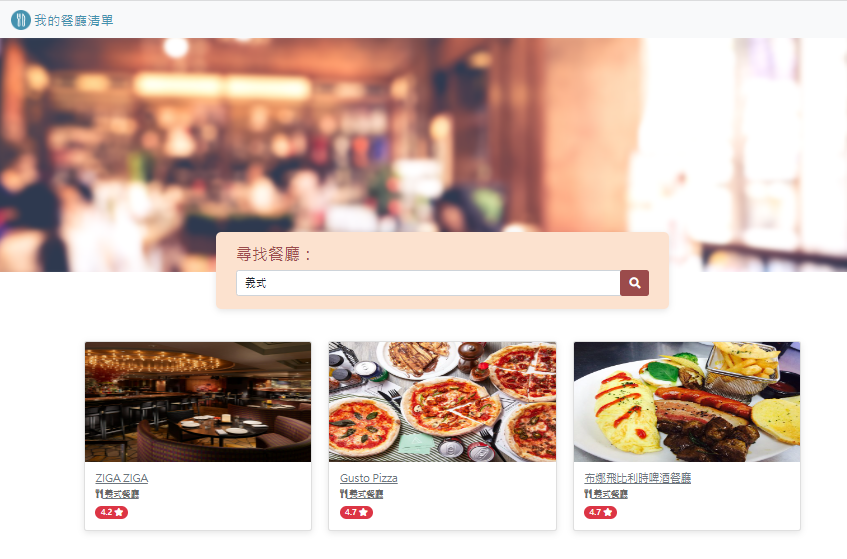
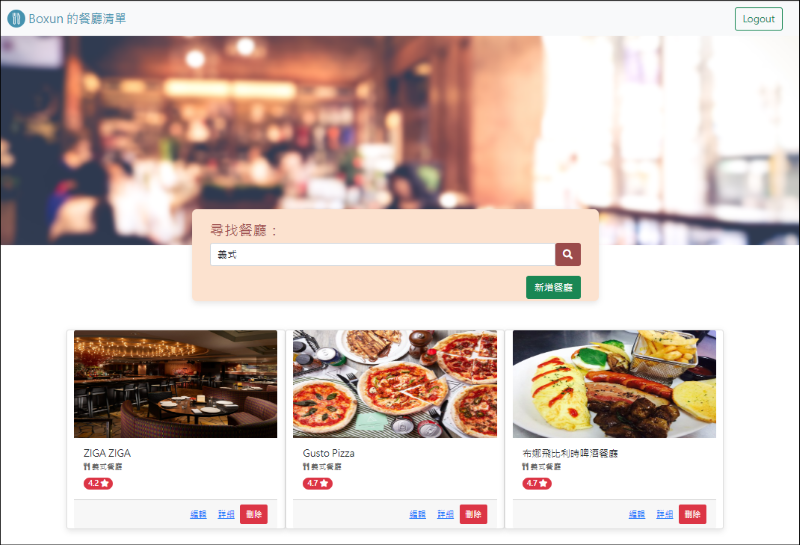
feat: add readme file

diff --git a/models/seeds/restaurantSeeder.js b/models/seeds/restaurantSeeder.js
@@ -37,8 +37,8 @@ db.once('open', () => {
           { length: 3 },
           (_, i) => {
             const j = Number(user.name)
-            restaurantList[(j + i)].userId = user._id
-            return Restaurant.create(restaurantList[(j + i)])
+            restaurantList[j + i].userId = user._id
+            return Restaurant.create(restaurantList[j + i])
           }
         ))
       })

diff --git a/README.md b/README.md
@@ -1,23 +1,31 @@
 # 餐廳清單 Restaurant List
-一個可以幫助使用者尋找喜愛餐廳的線上平台。該網站提供了一個集中的地方，使用者可以瀏覽餐廳清單、查看詳細資訊及評分
+一個可以幫助使用者收集個人喜愛餐廳的線上平台。該網站提供了一個集中的地方，使用者可以瀏覽餐廳清單、查看詳細資訊及評分
 ## Features - 產品功能
-1. 使用者可以透過搜尋餐廳名稱或類別來找到特定的餐廳
+1. 註冊使用者 (也可以透過 Facebook Login 直接登入)
 
-![image](https://github.com/boxunw/restaurant_list/blob/main/image/search.png)
+![image](https://github.com/boxunw/restaurant_list/blob/main/image/register.png)
 
-按下搜尋送出表單之後，畫面會回傳相對應的短網址
+2. 使用者登入後可以瀏覽全部所有餐廳
+
+![image](https://github.com/boxunw/restaurant_list/blob/main/image/all.png)
+
+3. 使用者可以新增餐廳
+
+![image](https://github.com/boxunw/restaurant_list/blob/main/image/new.png)
+
+4. 使用者可以瀏覽、編輯、和刪除餐廳詳細資訊
+
+![image](https://github.com/boxunw/restaurant_list/blob/main/image/detail.png)
+
+5. 使用者可以透過搜尋餐廳名稱或類別來找到特定的餐廳
 
 ![image](https://github.com/boxunw/restaurant_list/blob/main/image/after_search.png)
 
-2. 點擊餐廳圖卡可以顯示詳細資訊
-
-![image](https://github.com/boxunw/restaurant_list/blob/main/image/show.png)
-
 ## Environment SetUp - 環境建置
 1. [Node.js](https://nodejs.org/zh-tw)
-2. [express 4.17.1](https://www.npmjs.com/package/express/v/4.17.1)
-3. [express-handlebars 4.0.2](https://www.npmjs.com/package/express-handlebars?activeTab=versions)
-4. [nodemon 2.0.22](https://www.npmjs.com/package/nodemon)
+2. [MongoDB Atlas 資料庫](https://www.mongodb.com/atlas/database)
+3. [Robo 3T 資料庫管理工具](https://robomongo.org/)
+4. [Meta for developers](https://developers.facebook.com/)
 
 ## Installing - 安裝流程
 1. 請先確認已安裝Node.js，若無，至環境建置第1項點擊安裝
@@ -33,15 +41,18 @@ cd restaurant_list
 ```
 npm install
 ```
-5. 開啟程式
+5. 根據資料夾內 .env.example 設定 .env 檔:
+可至MongoDB Atlas雲端資料庫申請及使用Robo 3T創建資料庫後取得 MONGODB_URI 及前往 Meta for developers 申請應用程式編號及密鑰分別放入 FACEBOOK_ID 和 FACEBOOK_SECRET
+
+6. 開啟程式
 ```
 npm run dev
 ```
-6. 等待終端機出現以下字樣
+7. 等待終端機出現以下字樣
 ```
-Express is listening on localhost:3000
+mongodb connected!
 ```
-7. 在瀏覽器輸入以下網址即可開始使用此工具
+8. 在瀏覽器輸入以下網址即可開始使用此工具
 ```
 http://localhost:3000
 ```
